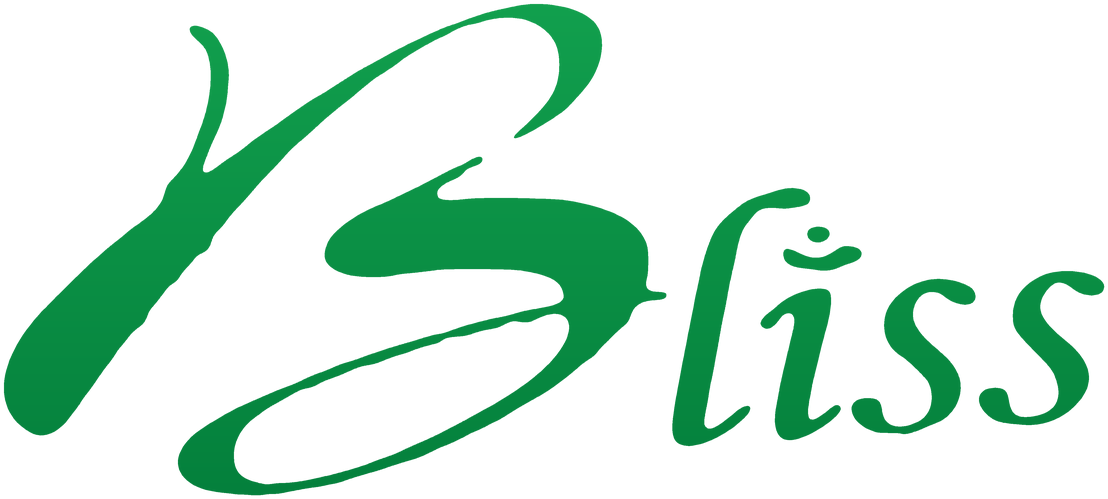
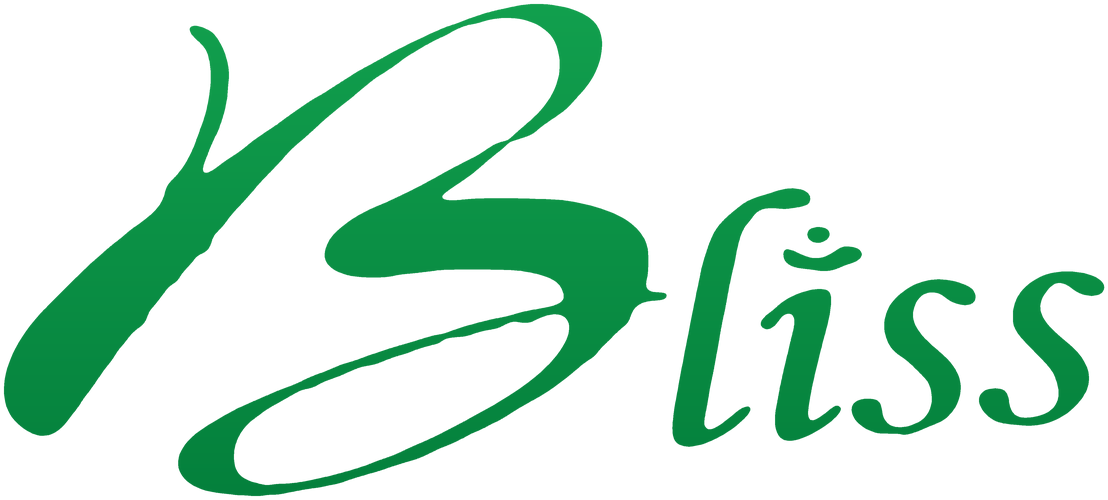
Join the B's upper stroke where it crossed the figure outline

diff --git a/index.html b/index.html
@@ -5,11 +5,11 @@
 <meta name="viewport" content="width=device-width, initial-scale=1">
 <title>Bliss Institute of Yoga &amp; Naturopathy, Agra — Dr. Sunita Garg</title>
 <meta name="description" content="Bliss Institute of Yoga, Acupuncture and Naturopathy, Agra. Therapeutic yoga, TCM diagnosis, personalised meditation, diet and lifestyle management, counselling, magnet therapy, physiotherapy and meridian massage with Dr. Sunita Garg, practising since 1990.">
-<link rel="icon" type="image/png" sizes="128x128" href="assets/bliss-icon.png?v=3">
-<link rel="apple-touch-icon" href="assets/bliss-icon.png?v=3">
+<link rel="icon" type="image/png" sizes="128x128" href="assets/bliss-icon.png?v=4">
+<link rel="apple-touch-icon" href="assets/bliss-icon.png?v=4">
 <meta property="og:title" content="Bliss Institute of Yoga, Acupuncture &amp; Naturopathy, Agra">
 <meta property="og:description" content="Therapeutic yoga, TCM diagnosis, acupressure, diet and lifestyle care with Dr. Sunita Garg, Agra. Since 1990.">
-<meta property="og:image" content="https://realsidg.github.io/bliss-institute/assets/og-image.jpg?v=3">
+<meta property="og:image" content="https://realsidg.github.io/bliss-institute/assets/og-image.jpg?v=4">
 <meta property="og:type" content="website">
 <link rel="preconnect" href="https://fonts.googleapis.com">
 <link rel="preconnect" href="https://fonts.gstatic.com" crossorigin>
@@ -278,7 +278,7 @@ footer{padding:48px 0;font-size:14px;color:var(--ink-soft)}
 <header id="top">
   <div class="wrap nav">
     <a class="brand" href="#top" aria-label="Bliss Institute home">
-      <img class="brand-mark" src="assets/bliss-wordmark.svg?v=3" width="102" height="46" alt="Bliss">
+      <img class="brand-mark" src="assets/bliss-wordmark.svg?v=4" width="102" height="46" alt="Bliss">
       <span><b>Institute</b><small>Yoga · Acupuncture · Naturopathy</small></span>
     </a>
     <ul id="menu">
@@ -338,7 +338,7 @@ footer{padding:48px 0;font-size:14px;color:var(--ink-soft)}
 <section class="about" id="about">
   <div class="wrap about-grid">
     <aside class="portrait reveal">
-      <img class="portrait-logo" src="assets/bliss-wordmark.svg?v=3" width="557" height="251" alt="Bliss" loading="lazy">
+      <img class="portrait-logo" src="assets/bliss-wordmark.svg?v=4" width="557" height="251" alt="Bliss" loading="lazy">
       <h3>Dr. Sunita Garg</h3>
       <p>Founder &amp; Director, Bliss Institute of Yoga, Acupuncture and Naturopathy</p>
       <ul>
@@ -645,7 +645,7 @@ footer{padding:48px 0;font-size:14px;color:var(--ink-soft)}
 
 <footer>
   <div class="wrap foot">
-    <span class="foot-brand"><img src="assets/bliss-wordmark.svg?v=3" width="80" height="36" alt="" loading="lazy">© <span id="yr">2026</span> Bliss Institute of Yoga, Acupuncture &amp; Naturopathy, Agra</span>
+    <span class="foot-brand"><img src="assets/bliss-wordmark.svg?v=4" width="80" height="36" alt="" loading="lazy">© <span id="yr">2026</span> Bliss Institute of Yoga, Acupuncture &amp; Naturopathy, Agra</span>
     <nav><a href="#about">About</a><a href="#services">Therapies</a><a href="#visit">Contact</a></nav>
   </div>
 </footer>
